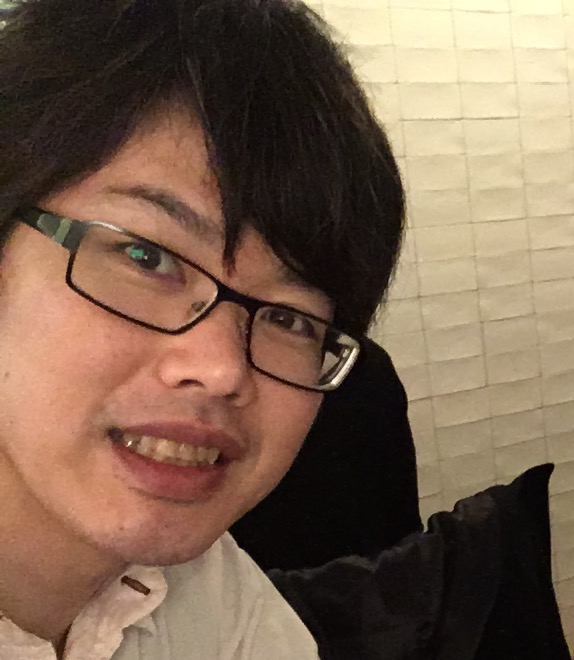
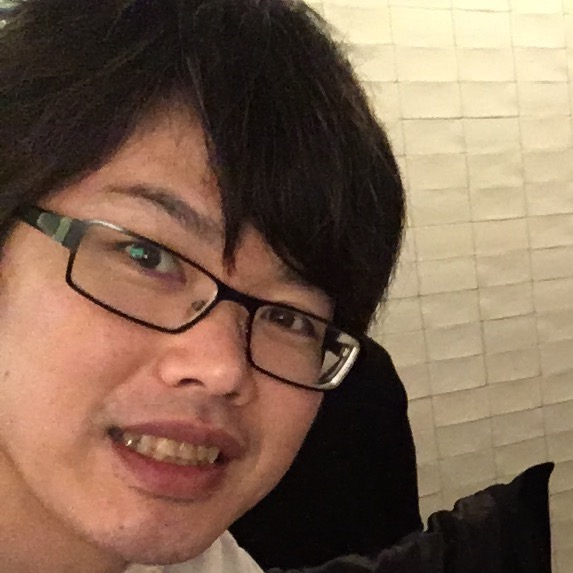
done project component except css hover

diff --git a/pages/component/project.js b/pages/component/project.js
@@ -18,13 +18,15 @@ export default function Project() {
     return (
       <div className={styles.card} key={index}>
         <h3 className={styles.projectTitle}>{ obj.title }</h3>
-        <Image 
-          src={obj.img} 
-          alt={obj.title} 
-          className={styles.img}
-          width="280px" 
-          height="150px">
-        </Image>
+        <div className={styles.imageWrapper}>
+          <Image 
+            src={obj.img} 
+            alt={obj.title} 
+            className={styles.img}
+            width="280px" 
+            height="150px">
+          </Image>
+        </div>
         <div className={styles.articleWrapper}>
           <article>
           { obj.description }
@@ -34,6 +36,7 @@ export default function Project() {
           "textAlign": "center"
         }}>
           <FaGithubSquare
+            className={styles.gitIcon}
           style={{
           "fontSize": "3rem",
           }}

diff --git a/styles/project.module.scss b/styles/project.module.scss
@@ -5,6 +5,7 @@
 .card {
     flex-basis: 50%;
     margin: 0.5rem;
+    width: 50%;
 }
 .projectTitle {
     text-align: center;
@@ -12,8 +13,22 @@
 .img {
     width: 0%;
 }
+.imageWrapper {
+    width: 100%;
+    height: 150px;
+    border: solid lightgrey;
+    box-shadow: 0px 5px 15px 0px rgba(0, 0, 0, 0.35);
+    overflow: hidden;
+}
 .articleWrapper {
     height: 200px;
     overflow-y: scroll;
     margin-top: 1rem;
+    .gutIcon {
+        font-size: 3rem;
+    }
+    .gitIcon:hover {
+        color: red;
+        text-shadow: 0px 5px 15px 0px rgba(0, 0, 0, 0.35);
+    }
 }

diff --git a/styles/home.module.scss b/styles/home.module.scss
@@ -16,6 +16,12 @@
   .myInfo {
     flex-basis: 50%;
   }
+  .imgFlexBox {
+    flex-basis: 50%;
+    display: flex;
+    justify-content: center;
+    align-items: center;
+  }
   .myImg {
     // flex-basis: 50%;
     position: relative;
@@ -24,7 +30,8 @@
     display: flex;
     justify-content: center;
     overflow: hidden;
-    border: solid red;
+    border: 0.2rem solid lightgrey;
+    box-shadow: 0px 5px 15px 0px rgba(0, 0, 0, 0.35);
     border-radius: 50vh;
   }
 }

diff --git a/pages/index.js b/pages/index.js
@@ -14,7 +14,7 @@ export default function Home() {
           <h2>Nobuhiro</h2>
           <h3>Entry-level Developer</h3>
         </div>
-        <div>
+        <div className={styles.imgFlexBox}>
           <div className={styles.myImg}>
           <Image
             src="/me.jpeg" 
